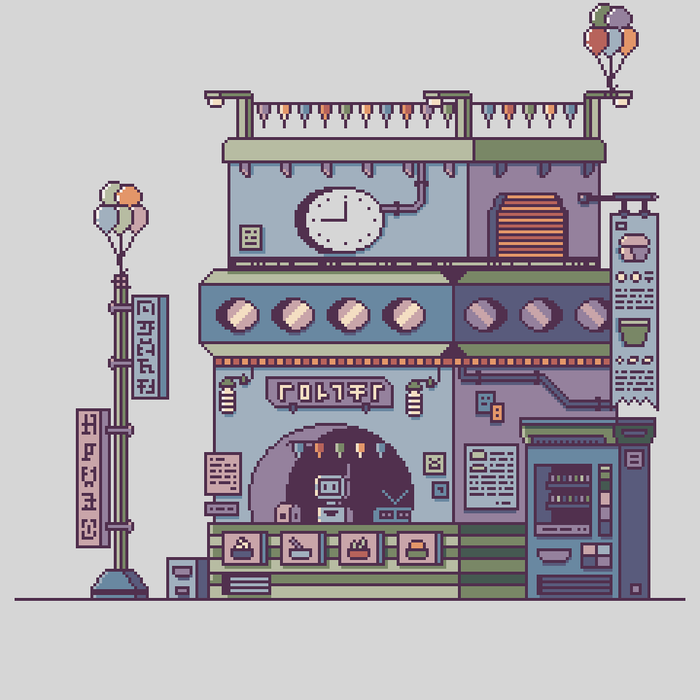
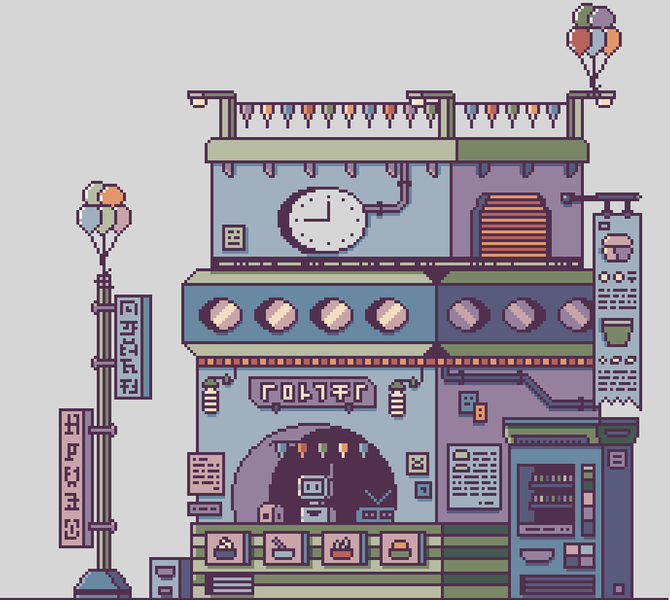
market사이즈 및 위치 조절

diff --git a/css/stylesheet.css b/css/stylesheet.css
@@ -4,8 +4,9 @@ body{
 
 .market{
     margin:0 auto;
-    width: 700px;
-    height:650px;
+    margin-top: 70px;
+    width: 670px;
+    height:600px;
     position: relative;
     border: 2px solid black; /* 테두리 두께, 스타일, 색상 지정 */
     border-radius: 5px; /* 필요하면 모서리 둥글게 */
